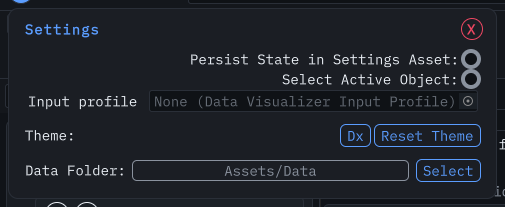
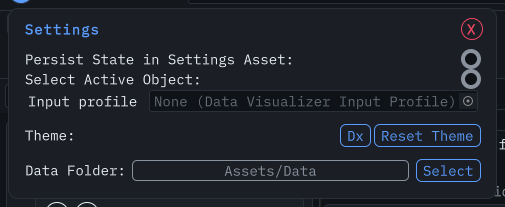
Refresh the Settings capture for the aligned labels
The settings screenshot showed the right-aligned switch labels the stylesheet
repair removed. Replace the capture and its WebP copy with a fresh shot from
the repaired source, and record the new revision and review scope.

The hosted geometry case keeps a short failure message after the debug probe
was removed.

Validation: capture is 505x207 like its predecessor and inspected; the WebP
export verified lossless pixels; `npm run check:gate` passes 17/17.

Refs #312.

Changed region(s): [[0.0297, 0.2609, 0.8911, 0.3188], [0.0297, 0.3478, 0.3861, 0.4348], [0.5644, 0.3478, 0.8911, 0.4348]]

diff --git a/Tests/Editor/PopoverFocusTests.cs b/Tests/Editor/PopoverFocusTests.cs
@@ -557,11 +557,7 @@ namespace WallstopStudios.DataVisualizer.Tests.Editor
             Label themeLabel = popover.Q(name: "theme-row").Q<Label>(className: "settings-data-folder-label");
             Label folderLabel = popover.Q(name: "data-folder-display").parent.Q<Label>(className: "settings-data-folder-label");
             Assert.That(persistence != null && selection != null && themeLabel != null && folderLabel != null, "Every settings row renders.");
-            Assert.That(
-                popover.worldBound.width,
-                Is.Positive,
-                $"The settings popover lays out before the columns are compared. root={window.rootVisualElement.worldBound} popover={popover.worldBound} display={Display(popover)}"
-            );
+            Assert.That(popover.worldBound.width, Is.Positive, "The settings popover lays out before the columns are compared.");
 
             /*
                 The switches carry their own right-aligned labels while the theme and folder
